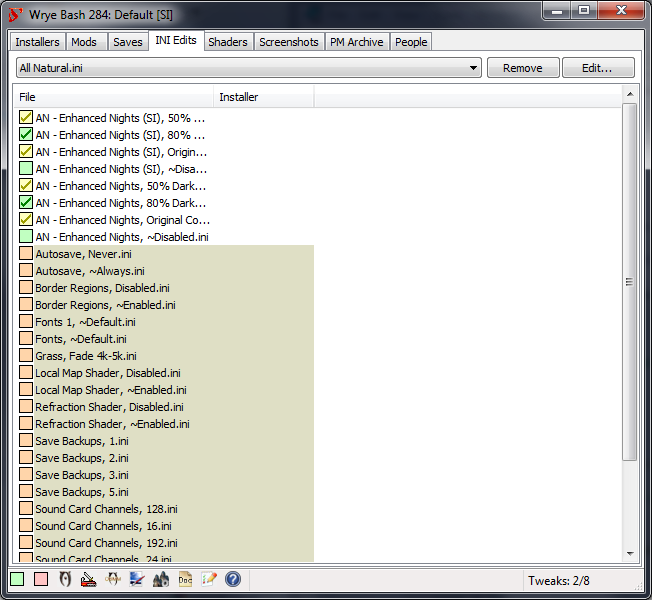
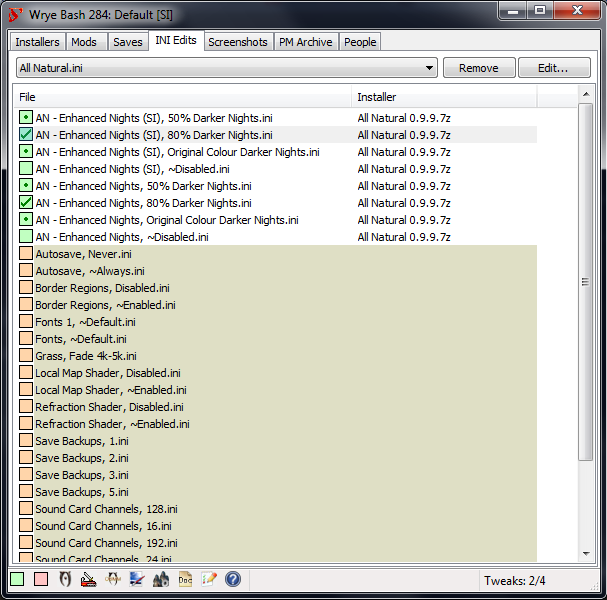
updated docs/images for INI Edits tab
git-svn-id: https://svn.code.sf.net/p/oblivionworks/code@354 c80116c5-1073-4541-b2a9-63b9fd661f84

diff --git a/Programs/Wrye Bash/Mopy/Wrye Bash.html b/Programs/Wrye Bash/Mopy/Wrye Bash.html
@@ -1831,13 +1831,15 @@ Bob's Mod with a very, very long name.esp >> Bob's Mod.esp</pre>
 <p class=list-1>&bull;&nbsp; <B><I>Note:</I></B> The background load section of the ini file changed with the introduction of Patch 1.2. It would probably be a bad thing to apply pre 1.2 background settings to a 1.2 configuration and vice versa.
 <p class=list-1>&bull;&nbsp; <B>Checkbox Colors</B> 
   <img src="images/checkbox_green_on.png" width="16" height="16" border="0" alt="Green with Check">
-  <img src="images/checkbox_yellow_on.png" width="16" height="16" border="0" alt="Yellow with Check">
+  <img src="images/checkbox_green_imp.png" width="16" height="16" border="0" alt="Green with Dot">
+  <img src="images/checkbox_yellow_imp.png" width="16" height="16" border="0" alt="Yellow with Dot">
   <img src="images/checkbox_green_off.png" width="16" height="16" border="0" alt="Green">
   <img src="images/checkbox_orange_off.png" width="16" height="16" border="0" alt="Orange">
   <p class=list-2>&bull;&nbsp; Checkbox colors indicate the status of the ini tweak
     <p class=list-3>&bull;&nbsp; Orange: Invalid; some or all variables set in the INI do not exist in the selected Ini file.
     <p class=list-3>&bull;&nbsp; Green: Valid; all values exist in the target Ini, but none of the settings are the same as in the tweak file
-    <p class=list-3>&bull;&nbsp; Yellow with Check: Valid, some of the settings in target Ini are the same, but some are not.
+    <p class=list-3>&bull;&nbsp; Yellow with Dot: Valid, some of the settings in target Ini are the same, but some are not.
+    <p class=list-3>&bull;&nbsp; Green with Dot: Valid, some of the settings in target Ini are the same, but some are not.  The ones that are not, ARE the same as another tweak file from the same installer.
     <p class=list-3>&bull;&nbsp; Green with Check: Valid and Active.
     <p class=empty>&nbsp;</p>
 <h3><a name='INITweaksOptions'>INI Tweaks Options</a></h3>
